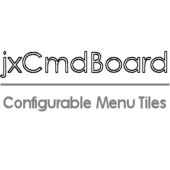
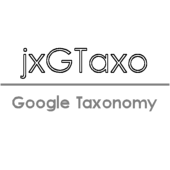
Installation completed (sql-statement and description)

Changed region(s): [[0.0, 0.2647, 1.0, 0.4706], [0.0, 0.5588, 1.0, 0.6765]]

diff --git a/copy_this/modules/jxmods/jxgtaxo/application/controllers/admin/jxgtaxo_install.php b/copy_this/modules/jxmods/jxgtaxo/application/controllers/admin/jxgtaxo_install.php
@@ -1,0 +1,65 @@
+<?php
+/*
+ *    This file is part of the module jxGTaxo for OXID eShop Community Edition.
+ *
+ *    OXID eShop Community Edition is free software: you can redistribute it and/or modify
+ *    it under the terms of the GNU General Public License as published by
+ *    the Free Software Foundation, either version 3 of the License, or
+ *    (at your option) any later version.
+ *
+ *    OXID eShop Community Edition is distributed in the hope that it will be useful,
+ *    but WITHOUT ANY WARRANTY; without even the implied warranty of
+ *    MERCHANTABILITY or FITNESS FOR A PARTICULAR PURPOSE.  See the
+ *    GNU General Public License for more details.
+ *
+ *    You should have received a copy of the GNU General Public License
+ *    along with OXID eShop Community Edition.  If not, see <http://www.gnu.org/licenses/>.
+ *
+ * @link      https://github.com/job963/jxGTaxo
+ * @license   http://www.gnu.org/licenses/gpl-3.0.html GPL v3 or later
+ * @copyright (C) Joachim Barthel 2014
+ * 
+ */
+
+class jxgtaxo_install
+{ 
+    public static function onActivate() 
+    { 
+
+        //$myConfig = oxRegistry::get("oxConfig");
+        //$bConfig_DropOnDeactivate = $myConfig->getConfigParam("bJxInventoryDropOnDeactivate");
+        $oDb = oxDb::getDb(); 
+
+        //$isUtf = oxRegistry::getConfig()->isUtf(); 
+        //$sCollate = ($isUtf ? "COLLATE 'utf8_general_ci'" : "");
+        
+        $sSql = "ALTER TABLE oxcategories "
+                . "ADD COLUMN `JXGOOGLETAXONOMY` VARCHAR(255) NULL "; 
+                
+        $oRs = $oDb->execute($sSql); 
+        
+        if ($oDb->errorNo() != 0) {
+            echo '<div style="font-family:Arial;font-size:14px;border: 1px solid #dd0000;background-color:#ffdddd;margin:8px;padding:2px;">';
+            echo '<span style="color:#000000;"><b>MySQL-Error ' . $oDb->errorNo() . ':</b><br />';
+            echo $oDb->errorMsg() . '</span>';
+            if (!empty($sSql)) {
+                echo '<pre style="white-space:pre-wrap; color:#000000;">';
+                echo $sSql;
+                echo '</pre>';
+            }
+            echo '</div>';
+            return FALSE;
+        }
+        
+        return TRUE; 
+    } 
+
+    
+    public static function onDeactivate() 
+    { 
+        // do nothing
+        return TRUE; 
+    }  
+}
+
+?>

diff --git a/copy_this/modules/jxmods/jxgtaxo/metadata.php b/copy_this/modules/jxmods/jxgtaxo/metadata.php
@@ -12,11 +12,11 @@ $aModule = array(
     'id'           => 'jxgtaxo',
     'title'        => 'jxGTaxo - Google Product Taxonomy',
     'description'  => array(
-                        'de'=>'Konfigurierbares Command Board',
+                        'de'=>'Definition der Google Produkt Taxonomie je Kategorie',
                         'en'=>'Define the Google Product Taxonomy for each Category'
                         ),
     'thumbnail'    => 'jxgtaxo.png',
-    'version'      => '0.2',
+    'version'      => '0.1',
     'author'       => 'Joachim Barthel',
     'url'          => 'https://github.com/job963/jxGTaxo',
     'email'        => 'jobarthel@gmail.com',
@@ -27,6 +27,10 @@ $aModule = array(
                         ),
     'templates'    => array(
         'jxgtaxo.tpl' => 'jxmods/jxgtaxo/views/admin/tpl/jxgtaxo.tpl'
+                        ),
+    'events'       => array(
+        'onActivate'   => 'jxgtaxo_install::onActivate', 
+        'onDeactivate' => 'jxgtaxo_install::onDeactivate'
                         ),
     'settings'     => array(
                         array(

diff --git a/README.md b/README.md
@@ -6,9 +6,13 @@ OXID eShop Admin Extension for Setting up the Google Taxonomy for each Category.
 
 Usage
 =========
-  Unzip the complete file with all the folder structures and upload the content of the folder copy_this to the root folder of your shop.
-  After this navigate in the admin backend of the shop to "Extension - Modules". Select the module and click on "Activate".
-  If you open the menu "System", you will see the the new menu item "Exception Log".
+
+
+1. Unzip the complete file with all the folder structures and upload the content of the folder copy_this to the root folder of your shop.
+2. After this navigate in the admin backend of the shop to _Extensions_ - _Modules_. Select the module _jxGTaxo_ and click on Activate`.
+3. Switch to the menu _Service_ - _Tools_, load the file install.sql and press `Start Update`.
+
+If you open the menu _Products_, you will see the the new menu item _Google Product Taxonomy_.
   
 Example:  
 ![screenshot](https://github.com/job963/jxGTaxo/raw/master/docs/img/edit-taxonomy-rs.png)
